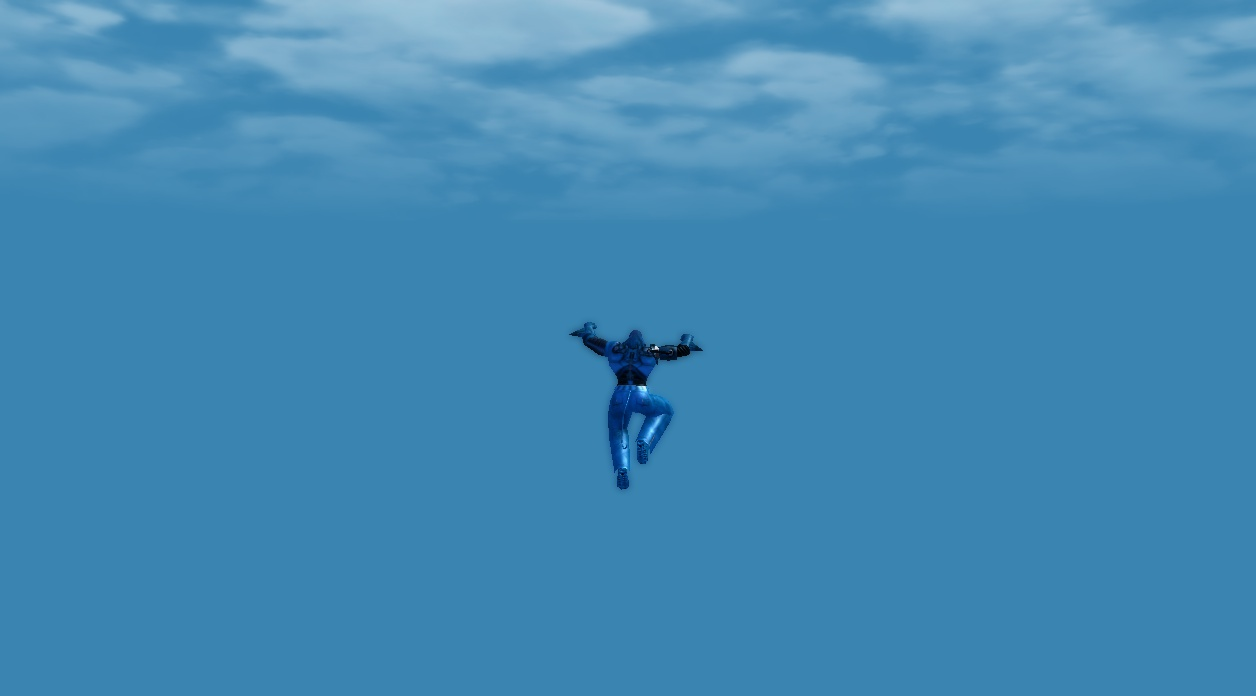
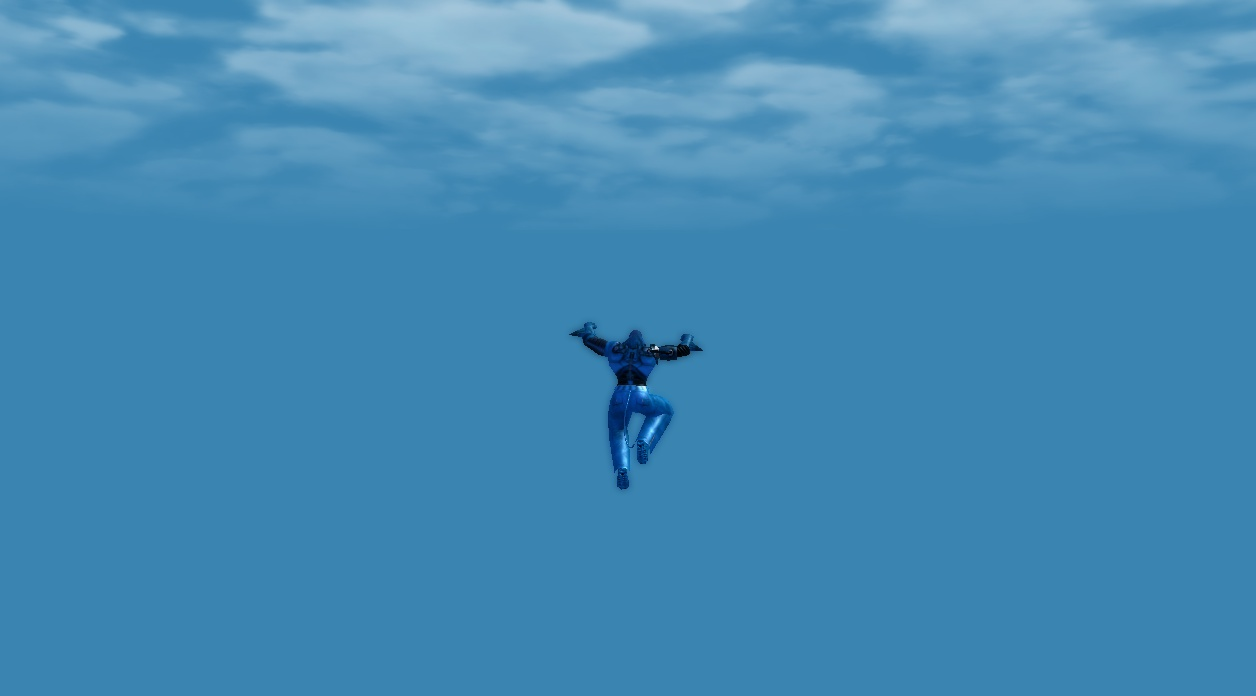
Port alphaDetailfp to GLSL pilot; add fragment coverage diagnostic
Fifth material port (base-alpha blend between dual textures, g_Env0FP
alpha modulation). WCW_BindFragmentProgram now reports every unported
fragment program id bound during a capture (once per process, pilot-gated),
giving a real coverage map: modulate/multiply/colorBlendDual active in
Atlas Park; addGlow and alphaDetail registered but never bound (no scene
coverage day or night); the remaining covered families are the
bumpmapped set (ids 100/101) and the effects post-processing set
(ids 201-216, ssao family).

Verification (same-window A/B): CityHall/East/West PASS 1.5-3.8%;
North flagged 7.6% once (sky movement between suites) and re-verified
at 1.44%/1.28 on an immediate pilot re-capture - transient, not
reproduced. The idle programs are provably render-neutral (zero binds).

diff --git a/Game/src/render/thread/rt_glslpilot.c b/Game/src/render/thread/rt_glslpilot.c
@@ -192,6 +192,34 @@ static const char s_addGlowFragmentSource[] =
 "    gl_FragColor = out_color;\n"
 "}\n";
 
+// alphaDetailfp.cg, default variant (no BIT_HIGH_QUALITY / shadow): base
+// alpha blends between the blend and base rgb; blend alpha modulates the
+// constant (g_Env0FP) alpha.
+static const char s_alphaDetailFragmentSource[] =
+"#version 120\n"
+"\n"
+"uniform sampler2D sampler_base;   // TEXUNIT0\n"
+"uniform sampler2D sampler_blend;  // TEXUNIT1\n"
+"uniform vec4 g_Env0FP;            // engine constColor0 (TIE(ENV8) -> fragment program.env[8])\n"
+"\n"
+"void main()\n"
+"{\n"
+"    vec4 tex_base = texture2D( sampler_base, gl_TexCoord[0].xy );\n"
+"    vec4 tex_blend = texture2D( sampler_blend, gl_TexCoord[0].zw );\n"
+"\n"
+"    // texture 0 (base) alpha blends between texture 0 and 1 rgb;\n"
+"    // texture 1 (blend) alpha modulates the current constant alpha\n"
+"    vec4 out_color;\n"
+"    out_color.rgb = mix( tex_blend.rgb, tex_base.rgb, tex_base.a );\n"
+"    out_color.rgb *= 4.0 * gl_Color.rgb;\n"
+"    out_color.a = g_Env0FP.a * tex_blend.a;\n"
+"\n"
+"    float fogAmount = clamp( gl_Fog.scale * ( gl_Fog.end - gl_FogFragCoord ), 0.0, 1.0 );\n"
+"    out_color.rgb = mix( gl_Fog.color.rgb, out_color.rgb, fogAmount );\n"
+"\n"
+"    gl_FragColor = out_color;\n"
+"}\n";
+
 // variants.cgh values for g_VertexLitMode
 enum {
     kPilotVertLit_VertColor = 1,
@@ -261,6 +289,7 @@ static tPilotMaterial s_materials[kPilotMaterial_Count] = {
     { 0, "BLENDMODE_MULTIPLY",       s_multiplyFragmentSource,       s_dualSamplers,     true,  false, false, 0, -1, -1, -1, -1, -1, false, false, false },
     { 0, "BLENDMODE_COLORBLEND_DUAL", s_colorBlendDualFragmentSource, s_dualTintSamplers, true,  true,  false, 0, -1, -1, -1, -1, -1, false, false, false },
     { 0, "BLENDMODE_ADDGLOW",        s_addGlowFragmentSource,        s_addGlowSamplers,  true,  false, true,  0, -1, -1, -1, -1, -1, false, false, false },
+    { 0, "BLENDMODE_ALPHADETAIL",    s_alphaDetailFragmentSource,    s_dualSamplers,     true,  false, false, 0, -1, -1, -1, -1, -1, false, false, false },
 };
 
 static int                    s_activeMaterial = -1;    // -1 = pilot inactive
@@ -514,6 +543,26 @@ bool rt_glslpilot_isActive( void )
     return s_activeMaterial >= 0;
 }
 
+void rt_glslpilot_noteUnportedFragmentBind( GLuint fragmentPgmId )
+{
+    // one-time-per-id coverage map: with the pilot on, the client log ends
+    // up enumerating every material that still renders through ARB/Cg
+    static GLuint seenIds[32];
+    static int seenCount = 0;
+    int i;
+
+    if ( ! game_state.glslPilot || ( ! fragmentPgmId ) || ( fragmentPgmId == 0xFFFFFFFF ) )
+        return;
+    for ( i = 0; i < seenCount; i++ )
+    {
+        if ( seenIds[i] == fragmentPgmId )
+            return;
+    }
+    if ( seenCount < (int)( sizeof( seenIds ) / sizeof( seenIds[0] ) ) )
+        seenIds[seenCount++] = fragmentPgmId;
+    printf( "GLSL pilot: coverage: unported fragment program %d bound\n", (int)fragmentPgmId );
+}
+
 void rt_glslpilot_onReflectionParam( const GLfloat* vec4 )
 {
     // always mirror, active or not: the value must be correct whenever the
@@ -584,11 +633,12 @@ void rt_glslpilot_setFragmentTarget( tPilotMaterialId material, GLuint fragmentP
     s_materials[material].arbFragmentId = fragmentPgmId;
     if ( game_state.glslPilot )
     {
-        printf( "GLSL pilot: fragment targets modulate=%d multiply=%d colorBlendDual=%d addGlow=%d, %d registered vertex programs\n",
+        printf( "GLSL pilot: fragment targets modulate=%d multiply=%d colorBlendDual=%d addGlow=%d alphaDetail=%d, %d registered vertex programs\n",
             (int)s_materials[kPilotMaterial_Modulate].arbFragmentId,
             (int)s_materials[kPilotMaterial_Multiply].arbFragmentId,
             (int)s_materials[kPilotMaterial_ColorBlendDual].arbFragmentId,
             (int)s_materials[kPilotMaterial_AddGlow].arbFragmentId,
+            (int)s_materials[kPilotMaterial_AlphaDetail].arbFragmentId,
             s_vertexEntryCount );
     }
 }

diff --git a/Game/src/render/thread/rt_glslpilot.h b/Game/src/render/thread/rt_glslpilot.h
@@ -22,6 +22,7 @@ typedef enum ePilotMaterial {
     kPilotMaterial_Multiply,        // multiplyRegfp.cg
     kPilotMaterial_ColorBlendDual,  // colorBlendDualfp.cg
     kPilotMaterial_AddGlow,         // addglowfp.cg
+    kPilotMaterial_AlphaDetail,     // alphaDetailfp.cg
     kPilotMaterial_Count
 } tPilotMaterialId;
 
@@ -60,6 +61,12 @@ bool rt_glslpilot_isActive( void );
 void rt_glslpilot_onReflectionParam( const GLfloat* vec4 );
 void rt_glslpilot_onEnvParam( int index, const GLfloat* vec4 );
 void rt_glslpilot_onGlowParam( const GLfloat* vec4 );
+
+// Coverage diagnostic: called by WCW_BindFragmentProgram for binds the pilot
+// did not handle. Logs each distinct fragment program id once (per process)
+// so a capture's client log enumerates which materials still render through
+// the ARB/Cg path. No-ops unless the pilot switch is on.
+void rt_glslpilot_noteUnportedFragmentBind( GLuint fragmentPgmId );
 
 // Program registration from rt_shaderMgr.c. vertexLitMode uses the
 // variants.cgh values (VERT_COLOR=1, FF_LIT_GL=4, FF_UNLIT_GL=5); only

diff --git a/Game/src/render/thread/rt_shaderMgr.c b/Game/src/render/thread/rt_shaderMgr.c
@@ -964,6 +964,7 @@ void shaderMgr_InitFPs(void)
     rt_glslpilot_setFragmentTarget( kPilotMaterial_Multiply, g_shaderMgrFragmentProgramVariants[BLENDMODE_MULTIPLY][0] );
     rt_glslpilot_setFragmentTarget( kPilotMaterial_ColorBlendDual, g_shaderMgrFragmentProgramVariants[BLENDMODE_COLORBLEND_DUAL][0] );
     rt_glslpilot_setFragmentTarget( kPilotMaterial_AddGlow, g_shaderMgrFragmentProgramVariants[BLENDMODE_ADDGLOW][0] );
+    rt_glslpilot_setFragmentTarget( kPilotMaterial_AlphaDetail, g_shaderMgrFragmentProgramVariants[BLENDMODE_ALPHADETAIL][0] );
 
     executedOnce = 1;
     PERFINFO_AUTO_STOP();

diff --git a/Game/src/render/thread/wcw_statemgmt.c b/Game/src/render/thread/wcw_statemgmt.c
@@ -2311,6 +2311,8 @@ void WCW_BindFragmentProgram(GLuint id)
             boundFragmentProgram = id;
             return;
         }
+        // coverage diagnostic: record materials still on the ARB/Cg path
+        rt_glslpilot_noteUnportedFragmentBind( id );
         if(rdr_caps.chip & (ARBFP|GLSL))
         {
             if ( rt_cgGetCgShaderMode() )

diff --git a/AGENTS.md b/AGENTS.md
@@ -158,12 +158,12 @@ Shader-path findings (2026-08-15, evidence in `docs/agent-status.md`):
 
 - The default and only verified full-scene shader path is Cg compiling to ARB assembly (`useCg 1`). `useCg 0` uses precompiled ARB programs without Cg.
 - `useCg 2` (Cg->GLSL) is **broken** with the shipped shader sources: the custom `TIE(ENVn)` constant-bind semantics crash the Cg 2.2 `glslf`/`glslv` compiler backends (reproduced offline with `3rdparty/cg/bin/cgc.exe`), and even with those guarded out the engine pushes constants to `program.env[]` registers that GLSL cannot read. Do not default to it.
-- A **native GLSL pilot** renders `BLENDMODE_MODULATE`, `BLENDMODE_MULTIPLY`, and `BLENDMODE_COLORBLEND_DUAL` (the costume-tint material) through hand-written GLSL 1.20 compatibility-profile programs (`Game/src/render/thread/rt_glslpilot.{c,h}`), enabled with `-glslPilot 1` (or `agent/capture.ps1 -ExtraClientArgs "-glslPilot 1"`; `agent/capture-regression.ps1` forwards the same parameter for whole-suite runs). It is harness-verified visually equivalent to the ARB path day and night: the full 4-shot suite is green with all active materials confirmed in the client log. The materials share one replicated `vp_master_vp.cg` vertex shader and differ only in fragment math; mirrored engine constants cover `g_ReflectionParamVP`, `g_Env0FP`/`g_Env1FP` (constColor0/1), and `g_GlowParamFP`. A fourth material, `BLENDMODE_ADDGLOW`, is ported and registered but **unverified: no available Atlas Park view ever binds it** (night shots included — the capture shot table gained `timeHour` and Night* labels to prove that). It idles as a safe no-op until a covered scene exists (needs the map-transfer path).
+- A **native GLSL pilot** renders `BLENDMODE_MODULATE`, `BLENDMODE_MULTIPLY`, and `BLENDMODE_COLORBLEND_DUAL` (the costume-tint material) through hand-written GLSL 1.20 compatibility-profile programs (`Game/src/render/thread/rt_glslpilot.{c,h}`), enabled with `-glslPilot 1` (or `agent/capture.ps1 -ExtraClientArgs "-glslPilot 1"`; `agent/capture-regression.ps1` forwards the same parameter for whole-suite runs). It is harness-verified visually equivalent to the ARB path day and night: the full 4-shot suite is green with all active materials confirmed in the client log. The materials share one replicated `vp_master_vp.cg` vertex shader and differ only in fragment math; mirrored engine constants cover `g_ReflectionParamVP`, `g_Env0FP`/`g_Env1FP` (constColor0/1), and `g_GlowParamFP`. `BLENDMODE_ADDGLOW` and `BLENDMODE_ALPHADETAIL` are ported and registered but **unverified: no available Atlas Park view ever binds them** (night shots included — the capture shot table gained `timeHour` and Night* labels to prove that). They idle as safe no-ops until a covered scene exists (needs the map-transfer path). With the pilot on, a per-process coverage diagnostic logs every unported fragment program id bound during a capture.
 - The legacy fixed-function/ATI/NV-combiner branches (`R200`, `NV1X/NV2X`, `TEX_ENV_COMBINE`) cannot execute on modern drivers (extensions no longer exist) and are candidates for later deletion.
 
 The next priorities are:
 
-1. renderer material ports in small, harness-verified steps (modulate, multiply, colorBlendDual done; addGlow ported but awaiting scene coverage): next is either the map-transfer capture path to reach AddGlow-covered scenes, or the remaining simple materials (`alphaDetailfp`, `waterfp`); bumpmapped materials additionally need tangent-space interpolants and more engine constants
+1. renderer material ports in small, harness-verified steps (modulate, multiply, colorBlendDual verified; addGlow and alphaDetail ported but unverified — no Atlas Park coverage, per the coverage diagnostic). The remaining Atlas-Park-covered families are the bumpmapped set (needs tangent-space interpolants and more engine constants) and the effects/ post-processing set; the map-transfer capture path is the gate for verifying the uncovered materials
 2. dead-path deletion (`shadersATI.c`, `shadersTexEnv.c`, and their `rt_state.c`/`wcw_statemgmt.c` branches) as bounded hygiene once a renderer change justifies touching those files
 3. idle-animation phase determinism if close-up captures are needed for future shader work
 

diff --git a/docs/agent-status.md b/docs/agent-status.md
@@ -450,3 +450,51 @@ hardcoded two-sampler materials to a per-material sampler/unit table.
    covered Atlas Park interior/view) and run the night A/B there.
 2. Otherwise continue with the remaining fragment materials
    (`alphaDetailfp`, `waterfp`, effects/ set) using the same template.
+
+## GLSL pilot: alphaDetail port + fragment coverage map — 2026-08-15
+
+Fifth material ported and the coverage question systematized.
+
+### Changes
+
+- `rt_glslpilot.{c,h}`: `kPilotMaterial_AlphaDetail` —
+  `rgb = lerp(blend.rgb, base.rgb, base.a)`, `rgb *= 4*vertex color`,
+  `a = g_Env0FP.a * blend.a`, then fog (alphaDetailfp.cg variant 0; only
+  the already-mirrored g_Env0FP constant; sampler_base/sampler_blend on
+  units 0/1).
+- New coverage diagnostic: `WCW_BindFragmentProgram` calls
+  `rt_glslpilot_noteUnportedFragmentBind(id)` for binds the pilot did not
+  handle; each distinct fragment program id is logged once per process
+  (only when `-glslPilot 1`). A capture's client log now enumerates every
+  material still rendering through ARB/Cg.
+
+### Coverage map (AtlasPlaza_East_01, pilot on)
+
+- Active through the pilot: MODULATE (4), MULTIPLY (20), COLORBLEND_DUAL
+  (36).
+- Registered but never bound: ADDGLOW (52), ALPHADETAIL (68) — Atlas Park
+  has no coverage for either (day or night shots).
+- Unported fragment programs observed bound: 20 (the MULTIPLY post-reset
+  sentinel decline fallback), 100/101 (bumpmapColorblendDual and a variant,
+  by load-order id arithmetic), and 201-216 (the special-effects set;
+  `ssao` CgFX warnings appear in the same log).
+
+### Verification (same-window A/B, storm generation)
+
+- Adopt suite `agent/logs/regression-20260815-171312.json` (control),
+  pilot suite `agent/logs/regression-20260815-171520.json`: CityHall
+  1.50%/1.57, East 3.84%/1.71, West 3.44%/1.90 PASS; North flagged
+  7.63%/2.76 once (sky movement between suites) and an immediate pilot
+  re-capture of North measured **1.44%/1.28 PASS** vs the same baseline —
+  transient, not reproduced.
+- The alphaDetail and addGlow programs never intercept a bind (coverage
+  lines absent), so their presence is provably render-neutral in these
+  scenes; the three active materials are unchanged.
+
+### Where the remaining Atlas Park work lives
+
+The un-ported material families with real scene coverage are the
+bumpmapped set (needs tangent-space interpolants and more engine
+constants) and the effects/ post-processing set (bloom/ssao/etc.).
+Verifying ADDGLOW/ALPHADETAIL requires scenes that bind them — the
+map-transfer capture path remains the gate for that.
